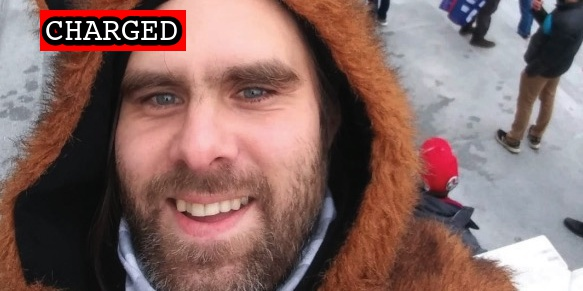
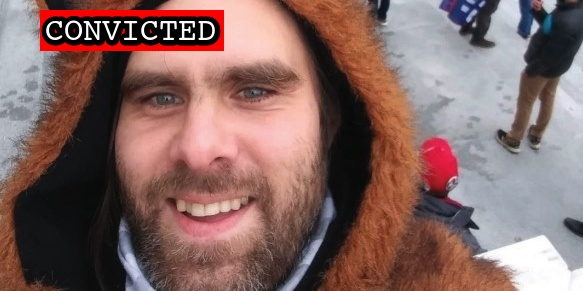
Latest

Changed region(s): [[0.0926, 0.0309, 0.4014, 0.1856]]

diff --git a/docs/_suspects/macsen-rutledge.md b/docs/_suspects/macsen-rutledge.md
@@ -4,16 +4,16 @@ lastName: Rutledge
 hashtag:
 aka:
 residence: New York
-status: Charged
+status: Convicted
 date: 2022-10-25
 charged: 2022-10-25
 indicted:
-convicted:
+convicted: 2023-05-22
 acquitted:
 sentenced:
 dismissed:
 deceased:
-plea_hearing:
+plea_hearing: 2023-05-22
 trial_date:
 trial_type:
 jury_selection:
@@ -32,17 +32,23 @@ raid:
 perpwalk:
 quote:
 title: Macsen Rutledge charged on October 25th, 2022
-description: Click for latest case details. Suspects innocent until proven guilty.
+description: Convicted on May 22, 2023. Click for latest case details.
 author: seditiontrack
 layout: suspect
 published: true
-caseNumber: 22-mj-0229
+caseNumber: 23-cr-0151
 caseName: USA v. RUTLEDGE
 judge: Moxila A. Upadhyaya
 videos:
 charges:
+  - code: 40 USC § 5104(e)(2)(G)
+    title: Parading, demonstrating or picketing in a Capitol building
+    url: https://www.law.cornell.edu/uscode/text/40/5104
+    felony: false
 sentence:
 ---
+
 - [News Report](https://www.syracuse.com/crime/2022/10/fbi-charges-syracuse-man-who-wore-bear-hood-in-us-capitol-during-jan-6-attacks.html)
 - [Statement of Facts](https://www.justice.gov/usao-dc/case-multi-defendant/file/1560526/download)
 - [Complaint](https://www.justice.gov/usao-dc/case-multi-defendant/file/1560531/download)
+- [Statement of Offense](https://storage.courtlistener.com/recap/gov.uscourts.dcd.255021/gov.uscourts.dcd.255021.32.0.pdf)

diff --git a/docs/_suspects/julio-baquero.md b/docs/_suspects/julio-baquero.md
@@ -4,13 +4,13 @@ lastName: Baquero
 hashtag:
 aka:
 residence: Florida
-status: Convicted
+status: Sentenced
 date: 2021-10-27
 charged: 2021-10-27
 indicted: 2021-12-01
 convicted: 2023-02-16
 acquitted:
-sentenced:
+sentenced: 2023-05-22
 dismissed:
 deceased:
 plea_hearing: 2023-02-16
@@ -41,12 +41,16 @@ caseName: USA v. BAQUERO
 judge: James E. Boasberg
 videos:
 charges:
-- code: 18 USC § 231(a)(3)
-  title: Obstruction of Law Enforcement During Civil Disorder
-  url: https://www.law.cornell.edu/uscode/text/18/231
-  felony: true
+  - code: 18 USC § 231(a)(3)
+    title: Obstruction of Law Enforcement During Civil Disorder
+    url: https://www.law.cornell.edu/uscode/text/18/231
+    felony: true
 sentence:
+  - 18 months incarceration
+  - 1 year probation
+  - $2000 restitution
 ---
+
 - [News Report](https://bipartisanreport.com/2021/11/12/florida-insurrectionist-who-assaulted-police-caught-charged-by-feds/)
 - [Statement of Facts](https://www.justice.gov/usao-dc/case-multi-defendant/file/1458906/download)
 - [Indictment](https://www.justice.gov/usao-dc/case-multi-defendant/file/1458911/download)

diff --git a/docs/_suspects/tyler-tew.md b/docs/_suspects/tyler-tew.md
@@ -15,10 +15,10 @@ dismissed:
 deceased:
 plea_hearing:
 trial_date: 2023-03-13
-trial_type: Jury Trial
+trial_type: Bench Trial
 jury_selection:
 sentencing:
-status_conference: 2023-05-22
+status_conference:
 age: 39
 occupation:
 affiliations:

diff --git a/docs/_suspects/kenneth-thomas.md b/docs/_suspects/kenneth-thomas.md
@@ -14,9 +14,9 @@ sentenced:
 dismissed:
 deceased:
 plea_hearing:
-trial_date: 2023-03-14
+trial_date: 2023-05-23
 trial_type: Jury Trial
-jury_selection:
+jury_selection: 2023-05-23
 sentencing:
 status_conference:
 age: 38

diff --git a/docs/_suspects/damon-beckley.md b/docs/_suspects/damon-beckley.md
@@ -18,7 +18,7 @@ trial_date: 2023-02-23
 trial_type: Stipulated Bench Trial
 jury_selection:
 sentencing: 2023-05-24
-status_conference:
+status_conference: 2023-05-23
 age: 52
 occupation:
 affiliations:

diff --git a/docs/_suspects/michael-oliveras.md b/docs/_suspects/michael-oliveras.md
@@ -17,7 +17,7 @@ plea_hearing:
 trial_date: 2023-02-20
 trial_type: Jury Trial
 jury_selection: 2023-02-20
-sentencing: 2023-06-02
+sentencing: 2023-07-13
 status_conference:
 age: 38
 occupation:

diff --git a/docs/_suspects/david-dempsey.md b/docs/_suspects/david-dempsey.md
@@ -18,7 +18,7 @@ trial_date:
 trial_type:
 jury_selection:
 sentencing:
-status_conference: 2023-05-22
+status_conference: 2023-06-22
 age: 34
 occupation:
 affiliations: Proud Boys

diff --git a/docs/_suspects/brian-mock.md b/docs/_suspects/brian-mock.md
@@ -16,7 +16,7 @@ deceased:
 plea_hearing:
 trial_date: 2023-06-20
 trial_type: Bench Trial
-jury_selection: 2023-06-20
+jury_selection:
 sentencing:
 status_conference:
 age: 42

diff --git a/docs/_suspects/scott-miller.md b/docs/_suspects/scott-miller.md
@@ -18,7 +18,7 @@ trial_date:
 trial_type:
 jury_selection:
 sentencing:
-status_conference: 2023-05-22
+status_conference: 2023-07-10
 age: 36
 occupation:
 affiliations:

diff --git a/docs/_suspects/william-cotton.md b/docs/_suspects/william-cotton.md
@@ -18,7 +18,7 @@ trial_date:
 trial_type:
 jury_selection:
 sentencing:
-status_conference: 2023-05-22
+status_conference: 2023-06-26
 age: 53
 occupation:
 affiliations:
